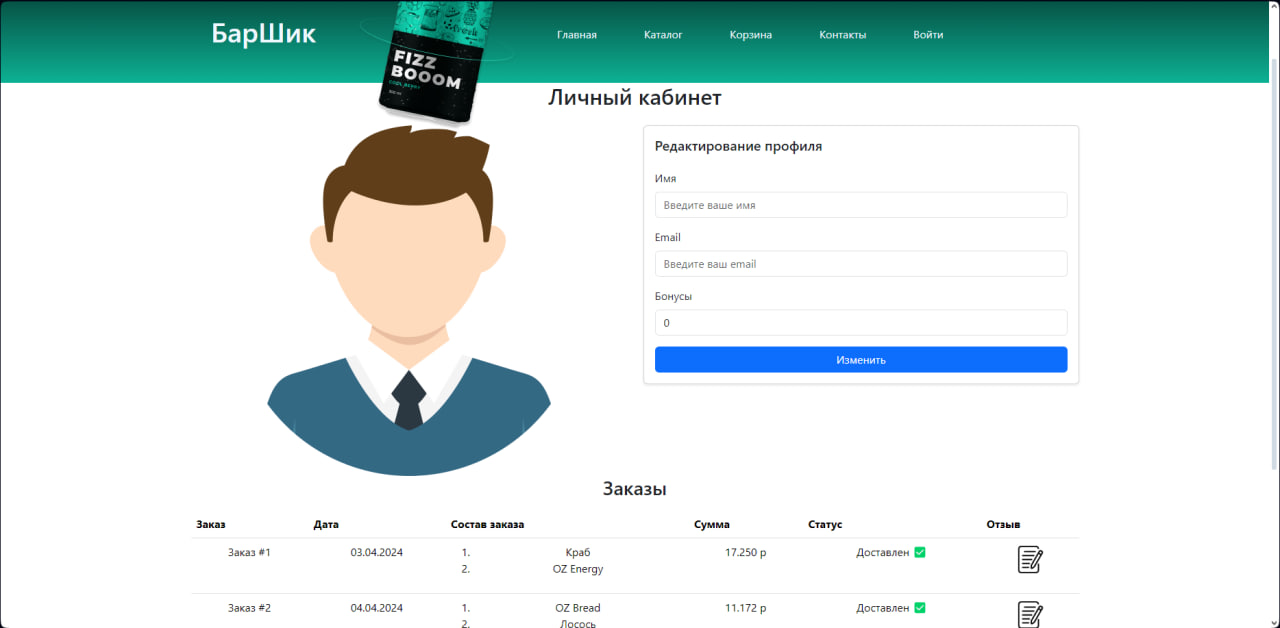
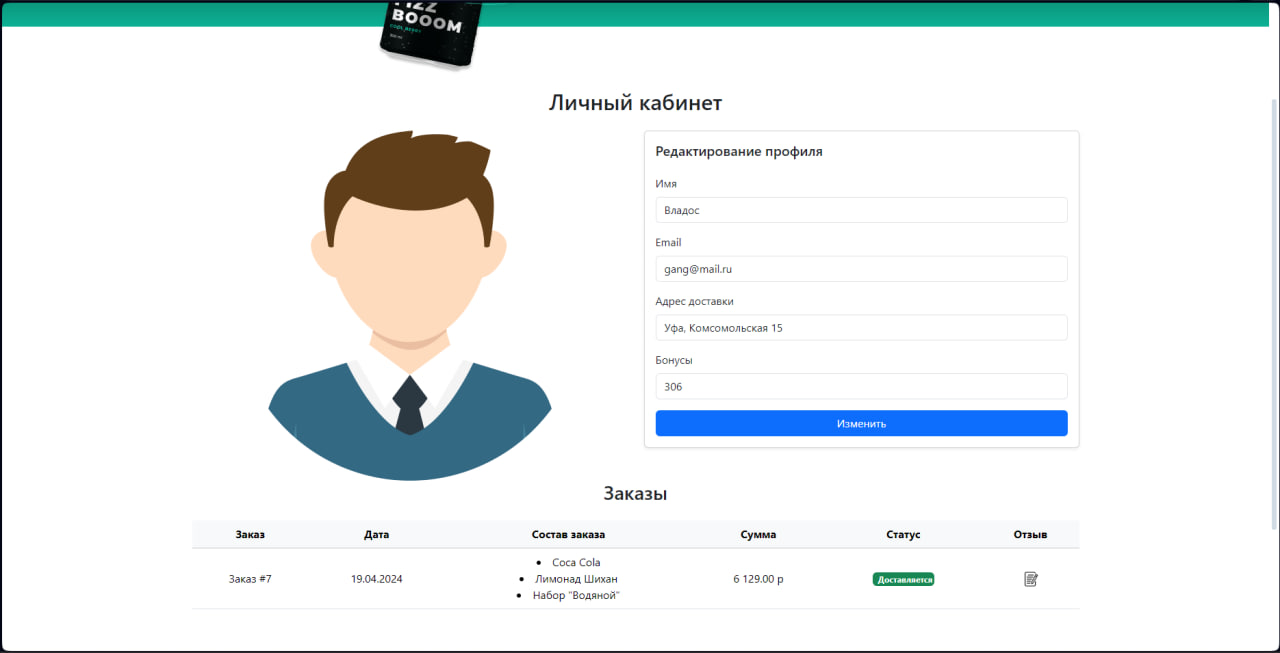
Добавлена возможность оставлять отзывы, но с ошибкой ( в процессе фикса ) Добавлены скрины, создан скрипт отправления отзыва в бд для дальнейшего отображения на index странице

diff --git a/user/personal_cab.php b/user/personal_cab.php
@@ -88,7 +88,7 @@ $orderResult = $orderStmt->get_result();
                 <div class="card shadow-sm">
                     <div class="card-body">
                         <h5 class="card-title mb-4">Редактирование профиля</h5>
-                        <form action="update_profile.php" method="post">
+                        <form action="../user/edit/update_profile.php" method="post">
                             <div class="mb-3">
                                 <label for="userName" class="form-label">Имя</label>
                                 <input type="text" id="userName" name="userName" class="form-control" placeholder="Введите ваше имя" value="<?= htmlspecialchars($userData['name']) ?>">
@@ -131,11 +131,9 @@ $orderResult = $orderStmt->get_result();
                                     <td>Заказ #<?= htmlspecialchars($row['Id_order']) ?></td>
                                     <td><?= date('d.m.Y', strtotime($row['Date_of_order'])) ?></td>
                                     <td>
-                                        <ul class="list-unstyled">
                                         <?php foreach (explode(', ', $row['Products']) as $product): ?>
                                             <li><?= htmlspecialchars($product) ?></li>
                                         <?php endforeach; ?>
-                                        </ul>
                                     </td>
                                     <td><?= number_format($row['Total_price'], 2, '.', ' ') ?> р</td>
                                     <td>
@@ -147,7 +145,7 @@ $orderResult = $orderStmt->get_result();
                                         <?php endif; ?>
                                     </td>
                                     <td>
-                                        <a href="#" data-bs-toggle="modal" data-bs-target="#feedback">
+                                        <a href="#" data-bs-toggle="modal" data-bs-target="#feedback" data-product-id="<?= $productId ?>" onclick="setProductId(this.getAttribute('data-product-id'))">
                                             <img src="../../design/img/writing.png" alt="Write feedback" class="img-fluid" style="width: 24px; height: 24px;">
                                         </a>
                                     </td>
@@ -179,30 +177,49 @@ $orderResult = $orderStmt->get_result();
         <p class="copirater">© 2023 Копирование запрещено. Все права защищены.</p> 
     </div>
 </footer>
-    <div class="modal fade" id="feedback" tabindex="-1" aria-labelledby="exampleModalLabel" aria-hidden="true">
-        <div class="modal-dialog">
-            <div class="modal-content">
-                <div class="modal-header">
-                    <h5 class="modal-title" id="exampleModalLabel">Оставьте отзыв</h5>
-                    <button type="button" class="btn-close" data-bs-dismiss="modal" aria-label="Закрыть"></button>
-                </div>
-                <div class="modal-body">
-                    <form>
-                        <div class="mb-3">
-                            <label for="message-text" class="col-form-label">Сообщение:</label>
-                            <textarea class="form-control" id="message-text"></textarea>
-                        </div>
-                    </form>
-                </div>
-                <div class="modal-footer">
-                    <button type="button" class="btn btn-primary">Оставить отзыв</button>
-                </div>
+<div class="modal fade" id="feedback" tabindex="-1" aria-labelledby="exampleModalLabel" aria-hidden="true">
+    <div class="modal-dialog">
+        <div class="modal-content">
+            <div class="modal-header">
+                <h5 class="modal-title" id="exampleModalLabel">Оставьте отзыв</h5>
+                <button type="button" class="btn-close" data-bs-dismiss="modal" aria-label="Закрыть"></button>
+            </div>
+            <div class="modal-body">
+                <!-- Форма обновлена для отправки данных на сервер -->
+                <form method="post" action="../user/review/send_review.php">
+                    <!-- Добавлено скрытое поле для ID продукта -->
+                    <input type="hidden" id="id_product" name="id_product" value="">
+                    <div class="mb-3">
+                        <label for="review_text" class="col-form-label">Сообщение:</label>
+                        <textarea class="form-control" id="review_text" name="review_text" required></textarea>
+                    </div>
+                    <div class="mb-3">
+                        <label for="rating" class="col-form-label">Оценка:</label>
+                        <select class="form-control" id="rating" name="rating">
+                            <option value="1">1 - Очень плохо</option>
+                            <option value="2">2 - Плохо</option>
+                            <option value="3">3 - Нормально</option>
+                            <option value="4">4 - Хорошо</option>
+                            <option value="5" selected>5 - Отлично</option>
+                        </select>
+                    </div>
+                    <div class="modal-footer">
+                        <button type="button" class="btn btn-secondary" data-bs-dismiss="modal">Закрыть</button>
+                        <!-- Кнопка для отправки формы -->
+                        <button type="submit" class="btn btn-primary">Оставить отзыв</button>
+                    </div>
+                </form>
             </div>
         </div>
     </div>
-    <script>
-        // Здесь можно добавить JavaScript, если нужно
-    </script>
+</div>
+
+<script>
+    function setProductId(productId) {
+        document.getElementById('id_product').value = productId;
+    }
+</script>
+
 </body>
 </html>
 

diff --git a/user/review/send_review.php b/user/review/send_review.php
@@ -1,0 +1,53 @@
+<?php
+session_start();
+include '../../database/connectdb.php';
+
+if ($_SERVER['REQUEST_METHOD'] == 'POST') {
+    if (!isset($_SESSION['user_id'])) {
+        echo "Вы не авторизованы.";
+        exit;
+    }
+
+    $userId = $_SESSION['user_id'];
+    $productId = $_POST['id_product'] ?? null;
+    $reviewText = $_POST['review_text'] ?? null;
+    $rating = $_POST['rating'] ?? null;
+
+    $errors = [];
+    if (empty($productId)) {
+        $errors[] = "ID продукта";
+    }
+    if (empty($reviewText)) {
+        $errors[] = "Текст отзыва";
+    }
+    if (empty($rating)) {
+        $errors[] = "Рейтинг";
+    }
+
+    if ($rating < 1 || $rating > 5) {
+        $errors[] = "Рейтинг должен быть числом от 1 до 5";
+    }
+
+    if (!empty($errors)) {
+        echo "Необходимо заполнить следующие поля: " . implode(', ', $errors) . ".";
+        exit;
+    }
+
+    // Подготовка запроса на вставку отзыва
+    $stmt = $mysqli->prepare("INSERT INTO Reviews (user_id, id_product, review_text, rating) VALUES (?, ?, ?, ?)");
+    $stmt->bind_param("iisi", $userId, $productId, $reviewText, $rating);
+
+    if ($stmt->execute()) {
+        echo "Отзыв успешно добавлен!";
+        header("Location: ../../index.php"); // Перенаправление после успешного добавления
+    } else {
+        echo "Ошибка при добавлении отзыва: " . $stmt->error; // Вывод ошибки
+    }
+
+    $stmt->close();
+} else {
+    echo "Ошибка запроса.";
+}
+
+$mysqli->close();
+?>

diff --git a/user/auth/check_auth.php b/user/auth/check_auth.php
@@ -9,7 +9,7 @@ if (!isset($_SESSION['user_id'])) {
 }
 
 // Подключаемся к базе данных
-include "../database/connectdb.php";
+include "../../database/connectdb.php";
 
 // Получаем роль пользователя из базы данных
 $user_id = $_SESSION['user_id']; // Получаем ID пользователя из сессии

diff --git a/user/edit/update_profile.php b/user/edit/update_profile.php
@@ -1,6 +1,6 @@
 <?php
 session_start();
-include '../database/connectdb.php';
+include '../../database/connectdb.php';
 
 // Проверяем, авторизован ли пользователь
 if (!isset($_SESSION['user_id'])) {

diff --git a/README.md b/README.md
@@ -12,8 +12,13 @@
 |![Страница входа](https://github.com/AikenOG/BarShikWeb/blob/main/assets/auth.jpg)|![Страница регистрации](https://github.com/AikenOG/BarShikWeb/blob/main/assets/reg.jpg)|
 |*Страница входа*|*Страница регистрации*|
 
-## Личный кабинет пользователя
-|![Личный кабинет](https://github.com/AikenOG/BarShikWeb/blob/main/assets/lichka.jpg)|
+## Корзина и чек пользователя
+|Корзина|Оформление заказа|
+|:--:|:--:|:--:|
+|![Корзина](https://github.com/AikenOG/BarShikWeb/blob/main/assets/cart.jpg)<br>*Страница корзины*<br>![Оформление](https://github.com/AikenOG/BarShikWeb/blob/main/assets/check.jpg)<br>*Страница оформления заказа*|
+
+## Корзина и чек пользователя
+|![Корзина](https://github.com/AikenOG/BarShikWeb/blob/main/assets/lichka.jpg)|
 |:--:|
 |*Личный кабинет пользователя*|
 
@@ -26,9 +31,13 @@
 
 ### Дополнительные функции админ панели
 |Управление категориями|Страница категорий|
-|:--:|:--:|
+|:--:|:--:|:--:|
 |![Добавление категории](https://github.com/AikenOG/BarShikWeb/blob/main/assets/add_categ.jpg)<br>*Добавление категорий*<br>![Редактирование категории](https://github.com/AikenOG/BarShikWeb/blob/main/assets/edit_categ.jpg)<br>*Редактирование категорий*|![Страница работы с категориями](https://github.com/AikenOG/BarShikWeb/blob/main/assets/category.jpg)<br>*Страница категорий*|
 
+### Дополнительные функции админ панели
+|Управление заказами|Изменение статуса заказа|
+|:--:|:--:|:--:|
+|![Страница управления заказами](https://github.com/AikenOG/BarShikWeb/blob/main/assets/edit_orders.jpg)<br>*Страница заказов*<br>![Изменение статуса](https://github.com/AikenOG/BarShikWeb/blob/main/assets/edit_status.jpg)<br>*Изменение статуса заказа*|
 
 ## Структура базы данных
 |Таблица пользователей|Таблица продуктов|Таблица категорий|Таблица корзины|
